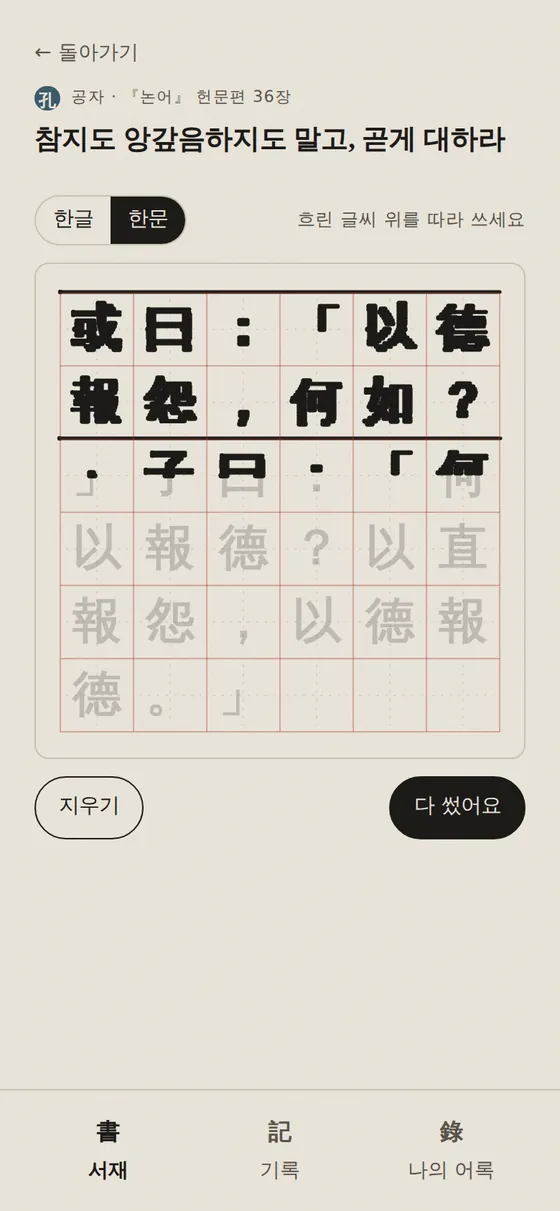
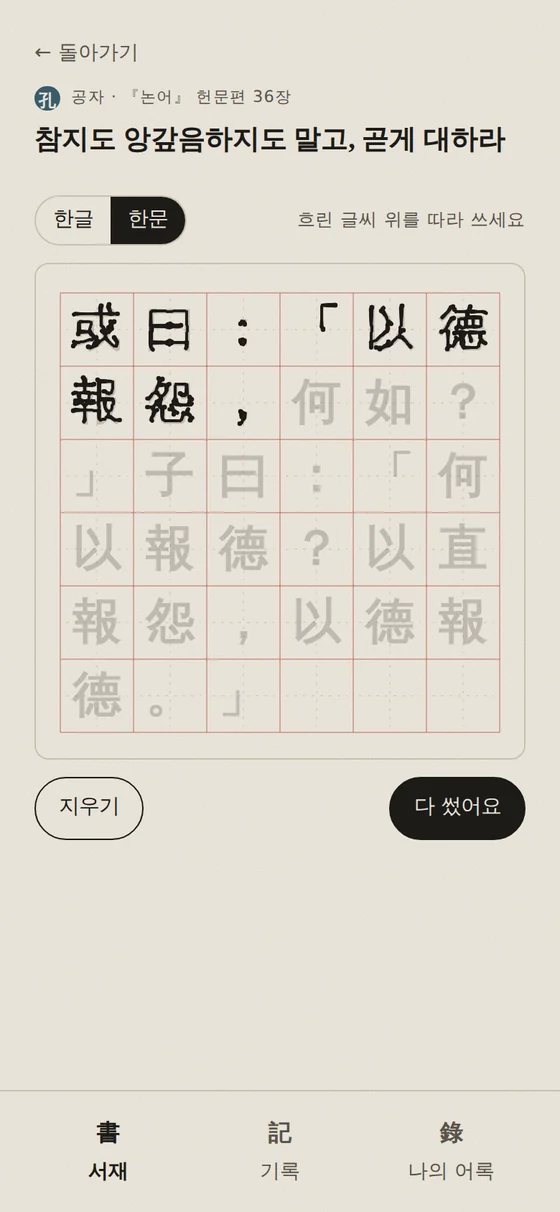
hyunja: 구절 섹션을 화면에 붙잡고, 필사는 왼쪽에서 오른쪽으로, 폰 베젤을 얇게
- 「원문부터 풀이까지, 한 장에」: 스크롤로 네 겹이 열리는 동안 화면이 같이
  흘러가 차분히 볼 수 없었다. 화면을 붙잡아 둔 채(sticky) 스크롤만큼 한 겹씩
  열리고, 올리면 접힌다. 카드를 위쪽에 붙여 겹이 열려도 아래로만 자라고
  들썩이지 않는다. 좁은 화면은 머리말을 먼저 지나 보낸 뒤 단추와 카드만
  붙잡는다. 단추를 누르면 그 단계로 가고, 다시 스크롤하면 스크롤이 이어받는다.
- 필사 캡처: 줄 단위로 위아래를 훑어 칠하던 방식이라 글자 위쪽 절반만 먹이
  묻은 것처럼(마스킹한 것처럼) 보였다. 안내 글자를 한 자씩 떼어 뼈대를 뽑고,
  글자 순서대로 왼쪽에서 오른쪽으로 그어 썼다. 획은 시작과 끝을 천천히,
  가운데를 빠르게 그어 앱의 붓 굵기 변화가 살아나게 했다. 둘째 줄 중간
  (한글 '갚', 한문 '怨，')에서 멈춰 쓰는 중인 장면으로 남겼다.
- 아이폰 목업: 베젤·모서리·다이내믹 아일랜드를 고정 px 에서 폭 비율로
  바꿨다. 작은 폰일수록 베젤이 두꺼워 보이던 문제가 없어졌다(폭의 약 2.3%).

Claude-Session: https://claude.ai/code/session_01GcxDg8HwpmhQNjcecpaQPK

Changed region(s): [[0.1214, 0.2139, 0.8804, 0.3972], [0.1518, 0.6416, 0.1821, 0.6722]]

diff --git a/app/(hyunja)/hyunja/globals.css b/app/(hyunja)/hyunja/globals.css
@@ -72,22 +72,22 @@ h1, h2, h3 { margin: 0; line-height: 1.25; letter-spacing: -0.03em; font-weight:
 .hj-cta-row.hj-center { justify-content: center; }
 
 /* ── 아이폰 목업 ── */
+/* 테두리·모서리·다이내믹 아일랜드를 모두 폭에 대한 비율로 잡는다.
+   고정 px 이면 작은 폰일수록 베젤이 두꺼워 보인다. (padding % 는 늘 폭 기준)
+   실제 iPhone 베젤은 폭의 2~2.5% 남짓이다. */
 .hj-phone {
   position: relative; width: min(290px, 72vw); aspect-ratio: 390 / 844; flex: none;
-  border-radius: 46px; padding: 10px; background: #1b1915;
-  border: 1px solid #3a352c;
-  box-shadow: 0 0 0 2px #0f0e0b, 0 40px 90px rgba(34, 32, 28, .3);
+  border-radius: 15.5% / 7.15%; padding: 2.3%; background: #1d1b17;
+  box-shadow: 0 0 0 1px #4a443a, inset 0 0 0 1px rgba(255,255,255,.06), 0 34px 80px rgba(34, 32, 28, .26);
 }
 .hj-phone::before {
-  content: ""; position: absolute; top: 18px; left: 50%; width: 30%; height: 24px;
-  transform: translateX(-50%); background: #000; border-radius: 20px; z-index: 3;
+  content: ""; position: absolute; top: 2.6%; left: 50%; width: 29%; height: 3.4%;
+  transform: translateX(-50%); background: #000; border-radius: 999px; z-index: 3;
 }
-.hj-screen { position: relative; width: 100%; height: 100%; border-radius: 37px; overflow: hidden; background: var(--hj-paper); }
+.hj-screen { position: relative; width: 100%; height: 100%; border-radius: 13.6% / 6.45%; overflow: hidden; background: var(--hj-paper); }
 .hj-screen img { position: absolute; inset: 0; width: 100%; height: 100%; object-fit: cover; object-position: top; opacity: 0; transition: opacity .55s ease; }
 .hj-screen img.hj-show { opacity: 1; }
-.hj-phone-sm { width: min(220px, 60vw); border-radius: 36px; padding: 8px; }
-.hj-phone-sm .hj-screen { border-radius: 29px; }
-.hj-phone-sm::before { height: 18px; top: 14px; }
+.hj-phone-sm { width: min(220px, 60vw); }
 
 /* ── 섹션 공통 ── */
 .hj section { padding: clamp(72px, 9vw, 128px) 0; }
@@ -171,6 +171,13 @@ h1, h2, h3 { margin: 0; line-height: 1.25; letter-spacing: -0.03em; font-weight:
 .hj-dots i.hj-on { background: var(--hj-ju); }
 
 /* ── 구절 한 장 (펼치기) ── */
+/* 화면을 붙잡아 둔 채 스크롤만큼 한 겹씩 — 넓은 화면은 머리말까지 함께 붙잡고,
+   좁은 화면은 머리말을 먼저 지나 보낸 뒤 단추와 구절 카드만 붙잡는다. */
+.hj .hj-pass { padding: 0; height: 300vh; position: relative; }
+.hj-pass-intro-m { display: none; }
+/* 카드가 위에서 아래로만 자라도록 위쪽에 붙인다 — 가운데 정렬이면 겹이 열릴 때마다 카드가 들썩인다 */
+.hj-pass .hj-sticky { align-items: flex-start; padding-top: clamp(28px, 7vh, 80px); }
+.hj-pass .hj-split { align-items: start; }
 .hj-passage { background: var(--hj-card); border: 1px solid var(--hj-line-2); border-radius: 26px;
   padding: clamp(22px, 3vw, 34px); box-shadow: 0 16px 40px rgba(34,32,28,.07); }
 .hj-orig { font-family: "Noto Serif KR", serif; font-size: clamp(18px, 2.2vw, 23px); line-height: 2; letter-spacing: .02em; }
@@ -257,10 +264,16 @@ footer { border-top: 1px solid var(--hj-line); padding: 44px 0 60px; color: var(
   .hj-screens { grid-template-columns: repeat(2, 1fr); gap: 20px; }
   .hj-zeros { grid-template-columns: repeat(2, 1fr); row-gap: 30px; }
   .hj .hj-table { height: 460vh; }
+  .hj .hj-pass { height: 320vh; }
+  .hj-pass-intro-m { display: block; padding-top: 72px; }
+  .hj-pass-intro-d { display: none; }
+  .hj-pass .hj-split { gap: 18px; }
+  .hj-pass .hj-steps { margin-top: 0; }
+  .hj-pass .hj-meta { display: none; }
 }
 @media (max-width: 600px) {
   .hj-hero-stage { margin-top: 36px; height: 150vw; }
-  .hj-phone { width: min(250px, 66vw); border-radius: 40px; }
+  .hj-phone { width: min(250px, 66vw); }
   .hj-float { width: 28vw; top: 48px; }
   .hj-float-r { top: 118px; }
   .hj-screens { grid-template-columns: 1fr; }
@@ -272,7 +285,7 @@ footer { border-top: 1px solid var(--hj-line); padding: 44px 0 60px; color: var(
   .hj-float, .hj-hero-phone { transform: none !important; }
   .hj-float-l { transform: translateX(calc(-50% - min(250px, 36vw))) rotate(-7deg) !important; }
   .hj-float-r { transform: translateX(calc(-50% + min(255px, 37vw))) rotate(6deg) !important; }
-  .hj .hj-table { height: auto; }
+  .hj .hj-table, .hj .hj-pass { height: auto; }
   .hj-sticky { position: relative; top: 0; height: auto; padding: 56px 0; }
   .hj-screen img, .hj-seat, .hj-answer .hj-a, .hj-layer { transition: none; }
 }

diff --git a/app/(hyunja)/hyunja/HomeContent.tsx b/app/(hyunja)/hyunja/HomeContent.tsx
@@ -17,7 +17,7 @@ import { useEffect, useRef, useState } from 'react';
 import type { CSSProperties, ElementType, ReactNode } from 'react';
 import { StoreButton } from './chrome';
 import { useDocTitle, useLang } from './i18n';
-import { reduceMotion, useCrossProgress, useInView, useScrollProgress } from './motion';
+import { reduceMotion, useInView, useScrollProgress } from './motion';
 
 const SHOT = (f: string) => `/hyunja/shot/${f}`;
 const ART = (f: string) => `/hyunja/art/${f}`;
@@ -312,17 +312,25 @@ function RoundTable() {
    올라가면 되감기고, 눌러서 직접 열 수도 있다(누르면 그 뒤로는 손을 따른다). */
 function Passage() {
   const { L } = useLang();
+  /* 화면을 붙잡아 둔 채(sticky) 스크롤만큼 한 겹씩 펼친다. 올리면 접힌다.
+     단추를 누르면 그 단계로 가고, 다시 스크롤하면 스크롤이 이어받는다. */
   const [pick, setPick] = useState<number | null>(null);
-  const [ref, p] = useCrossProgress<HTMLElement>();
-  const byScroll = Math.max(0, Math.min(3, Math.floor((p - 0.3) / 0.11)));
-  const open = pick ?? (reduceMotion() ? 3 : byScroll);
+  const [step, setStep] = useState(0);
+  const last = useRef(-1);
+  const ref = useScrollProgress<HTMLElement>((p) => {
+    if (reduceMotion()) return;
+    const next = Math.max(0, Math.min(3, Math.floor((p - 0.1) / 0.2)));
+    if (next !== last.current) {
+      last.current = next;
+      setStep(next);
+      setPick(null);
+    }
+  });
+  const open = pick ?? (reduceMotion() ? 3 : step);
 
-  return (
-    <section id="passage" ref={ref}>
-      <div className="hj-wrap hj-split">
-        <div>
-          <Reveal>
-            <p className="hj-kicker">{L('구절 한 장', 'One passage')}</p>
+  const intro = (
+    <>
+          <p className="hj-kicker">{L('구절 한 장', 'One passage')}</p>
             <div className="hj-head">
               <h2>
                 {L(
@@ -344,8 +352,17 @@ function Passage() {
                 )}
               </p>
             </div>
-          </Reveal>
-          <div className="hj-steps" role="tablist" aria-label={L('구절 펼치기', 'Open the passage')}>
+    </>
+  );
+
+  return (
+    <section id="passage" className="hj-pass" ref={ref}>
+      <div className="hj-wrap hj-pass-intro-m">{intro}</div>
+      <div className="hj-sticky">
+        <div className="hj-wrap hj-split">
+          <div>
+            <div className="hj-pass-intro-d">{intro}</div>
+            <div className="hj-steps" role="tablist" aria-label={L('구절 펼치기', 'Open the passage')}>
             {[
               L('원문', 'Original'),
               L('음독', 'Reading'),
@@ -367,10 +384,10 @@ function Passage() {
           <p className="hj-meta">
             {L('스크롤을 내리면 한 겹씩 펼쳐집니다.', 'Scroll on and it opens a layer at a time.')}
           </p>
-        </div>
+          </div>
 
-        <Reveal className="hj-passage" delay={100}>
-          <p className="hj-orig">或曰：「以德報怨，何如？」子曰：「何以報德？以直報怨，以德報德。」</p>
+          <div className="hj-passage">
+            <p className="hj-orig">或曰：「以德報怨，何如？」子曰：「何以報德？以直報怨，以德報德。」</p>
           <div className={`hj-layer ${open >= 1 ? 'hj-open' : ''}`}>
             <div className="hj-layer-in">
               <p className="hj-eum" style={{ margin: 0 }}>
@@ -401,7 +418,8 @@ function Passage() {
               </p>
             </div>
           </div>
-        </Reveal>
+          </div>
+        </div>
       </div>
     </section>
   );
